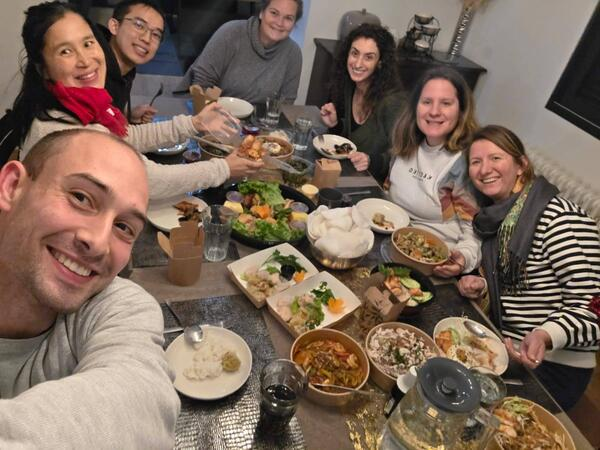
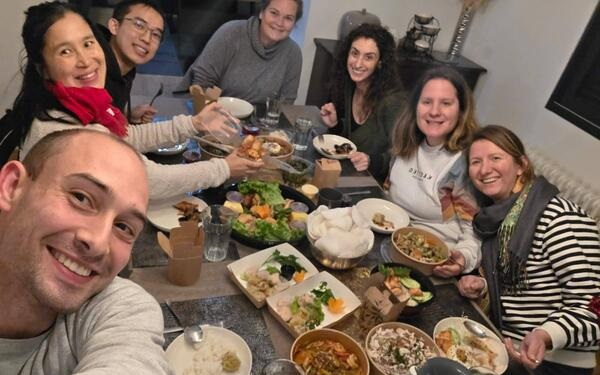
change images and optimize

diff --git a/projects.html b/projects.html
@@ -39,7 +39,7 @@
     <div class="max-w-5xl mx-auto space-y-6">
     <div class="flex flex-col sm:flex-row items-center sm:items-start gap-4 p-6 bg-white rounded-lg shadow-lg hover:shadow-xl transition-shadow">
       <button type="button" data-src="img/workshops_Laura.png" data-group="projects" onclick="openLightbox(event)">
-        <img src="img/workshops_Laura.png" alt="Workshop with Laura Maynard" class="w-32 h-32 sm:w-40 sm:h-40 object-cover rounded-lg shadow hover:scale-105 transition-transform duration-300">
+        <img src="img/workshops_Laura.png" alt="Workshop with Laura Maynard" class="w-40 h-28 sm:w-56 sm:h-36 object-cover rounded-lg shadow hover:scale-105 transition-transform duration-300">
       </button>
       <div class="flex-1 text-center sm:text-left">
         <span class="inline-block bg-yellow-300 text-white text-xs px-2 py-1 rounded mb-2">Community</span>
@@ -50,7 +50,7 @@
 
     <div class="flex flex-col sm:flex-row items-center sm:items-start gap-4 p-6 bg-white rounded-lg shadow-lg hover:shadow-xl transition-shadow">
       <button type="button" data-src="img/Murderet_logo.png" data-group="projects" data-caption="Photo by John Doe" onclick="openLightbox(event)">
-        <img src="img/Murderet_logo.png" alt="Summer festival 2025" class="w-32 h-32 sm:w-40 sm:h-40 object-cover rounded-lg shadow hover:scale-105 transition-transform duration-300">
+        <img src="img/Murderet_logo.png" alt="Summer festival 2025" class="w-40 h-28 sm:w-56 sm:h-36 object-cover rounded-lg shadow hover:scale-105 transition-transform duration-300">
       </button>
       <div class="flex-1 text-center sm:text-left">
         <span class="inline-block bg-yellow-300 text-white text-xs px-2 py-1 rounded mb-2">Community</span>
@@ -62,7 +62,7 @@
 
     <div class="flex flex-col sm:flex-row items-center sm:items-start gap-4 p-6 bg-white rounded-lg shadow-lg hover:shadow-xl transition-shadow">
       <button type="button" data-src="img/projects/FDT-2023-immersive-comedie.webp" data-group="projects" data-caption="Photo by John Doe" onclick="openLightbox(event)">
-        <img src="img/projects/FDT-2023-immersive-comedie-thumb.webp" alt="Cluedo Géant 2023" class="w-32 h-32 sm:w-40 sm:h-40 object-cover rounded-lg shadow hover:scale-105 transition-transform duration-300">
+        <img src="img/projects/FDT-2023-immersive-comedie-thumb.webp" alt="Cluedo Géant 2023" class="w-40 h-28 sm:w-56 sm:h-36 object-cover rounded-lg shadow hover:scale-105 transition-transform duration-300">
       </button>
       <div class="flex-1 text-center sm:text-left">
         <span class="inline-block bg-red-500 text-white text-xs px-2 py-1 rounded mb-2">Immersive</span>
@@ -74,7 +74,7 @@
 
     <div class="flex flex-col sm:flex-row items-center sm:items-start gap-4 p-6 bg-white rounded-lg shadow-lg hover:shadow-xl transition-shadow">
       <button type="button" data-src="img/projects/Workshop-2023-AdrienPellerin.jpg" data-group="projects" data-caption="Photo by Murderet" onclick="openLightbox(event)">
-        <img src="img/projects/Workshop-2023-AdrienPellerin.jpg" alt="Musical Improv Workshop" class="w-32 h-32 sm:w-40 sm:h-40 object-cover rounded-lg shadow hover:scale-105 transition-transform duration-300">
+        <img src="img/projects/Workshop-2023-AdrienPellerin.jpg" alt="Musical Improv Workshop" class="w-40 h-28 sm:w-56 sm:h-36 object-cover rounded-lg shadow hover:scale-105 transition-transform duration-300">
       </button>
       <div class="flex-1 text-center sm:text-left">
         <span class="inline-block bg-yellow-300 text-white text-xs px-2 py-1 rounded mb-2">Community</span>
@@ -86,7 +86,7 @@
 
     <div class="flex flex-col sm:flex-row items-center sm:items-start gap-4 p-6 bg-white rounded-lg shadow-lg hover:shadow-xl transition-shadow">
       <button type="button" data-src="img/projects/RETREAT-2023-community.webp" data-group="projects" data-caption="Photo by Arthur Nguyen" onclick="openLightbox(event)">
-        <img src="img/projects/RETREAT-2023-community-thumb.webp" alt="Improv Retreat 2023" class="w-32 h-32 sm:w-40 sm:h-40 object-cover rounded-lg shadow hover:scale-105 transition-transform duration-300">
+        <img src="img/projects/RETREAT-2023-community-thumb.webp" alt="Improv Retreat 2023" class="w-40 h-28 sm:w-56 sm:h-36 object-cover rounded-lg shadow hover:scale-105 transition-transform duration-300">
       </button>
       <div class="flex-1 text-center sm:text-left">
         <span class="inline-block bg-yellow-300 text-white text-xs px-2 py-1 rounded mb-2">Community</span>
@@ -97,8 +97,8 @@
     </div>
 
     <div class="flex flex-col sm:flex-row items-center sm:items-start gap-4 p-6 bg-white rounded-lg shadow-lg hover:shadow-xl transition-shadow">
-      <button type="button" data-src="img/projects/FDT-2022-immersive-mah.webp" data-group="projects" data-caption="Photo by John Doe" onclick="openLightbox(event)">
-        <img src="img/projects/FDT-2022-immersive-mah-thumb.webp" alt="A MAH-tter of Life and Death 2022" class="w-32 h-32 sm:w-40 sm:h-40 object-cover rounded-lg shadow hover:scale-105 transition-transform duration-300">
+      <button type="button" data-src="img/projects/FDT-FDT-2022-immersive-mah.webp" data-group="projects" data-caption="Photo by John Doe" onclick="openLightbox(event)">
+        <img src="img/projects/FDT-2022-immersive-mah-thumb.webp" alt="A MAH-tter of Life and Death 2022" class="w-40 h-28 sm:w-56 sm:h-36 object-cover rounded-lg shadow hover:scale-105 transition-transform duration-300">
       </button>
       <div class="flex-1 text-center sm:text-left">
         <span class="inline-block bg-red-500 text-white text-xs px-2 py-1 rounded mb-2">Immersive</span>
@@ -110,7 +110,7 @@
 
     <div class="flex flex-col sm:flex-row items-center sm:items-start gap-4 p-6 bg-white rounded-lg shadow-lg hover:shadow-xl transition-shadow">
       <button type="button" data-src="img/projects/FDT-2019-immersive-old-comedie.webp" data-group="projects" data-caption="Photo by John Doe" onclick="openLightbox(event)">
-        <img src="img/projects/FDT-2019-immersive-old-comedie-thumb.webp" alt="Cluedo Géant 2019" class="w-32 h-32 sm:w-40 sm:h-40 object-cover rounded-lg shadow hover:scale-105 transition-transform duration-300">
+        <img src="img/projects/FDT-2019-immersive-old-comedie-thumb.webp" alt="Cluedo Géant 2019" class="w-40 h-28 sm:w-56 sm:h-36 object-cover rounded-lg shadow hover:scale-105 transition-transform duration-300">
       </button>
       <div class="flex-1 text-center sm:text-left">
         <span class="inline-block bg-red-500 text-white text-xs px-2 py-1 rounded mb-2">Immersive</span>
@@ -129,29 +129,36 @@
   <div class="grid grid-cols-2 sm:grid-cols-3 md:grid-cols-4 gap-4 max-w-6xl mx-auto">
 
     <div class="gallery-wrapper">
-      <button type="button" class="gallery-item w-full" data-src="img/gallery/FDT-2023_murder_mystery_001.webp" data-group="gallery" data-caption="Magali Girardin - Fête du Théâtre 2023" onclick="openLightbox(event)">
-        <img src="img/gallery/FDT-2023_murder_mystery_001-thumb.webp" alt="Murder Mystery show" class="rounded-lg shadow h-40 w-full object-cover transform hover:scale-105 transition-transform duration-300">
+      <button type="button" class="gallery-item w-full" data-src="img/gallery/2025-11_Paquis_mystery.webp" data-group="gallery" data-caption="La Traverse Nov 2025" onclick="openLightbox(event)">
+        <img src="img/gallery/2025-11_Paquis_mystery-thumb.webp" alt="Murder Mystery show" class="rounded-lg shadow h-40 w-full object-cover transform hover:scale-105 transition-transform duration-300">
+      </button>
+      <p class="text-xs text-gray-500 mt-1 text-center">La Traverse Nov 2025</p>
+    </div>
+
+    <div class="gallery-wrapper">
+      <button type="button" class="gallery-item w-full" data-src="img/gallery/2025-11_ICC_CloseQuarters.webp" data-group="gallery" data-caption="ICC Nov 2025" onclick="openLightbox(event)">
+        <img src="img/gallery/2025-11_ICC_CloseQuarters-thumb.webp" alt="Murder Mystery show" class="rounded-lg shadow h-40 w-full object-cover transform hover:scale-105 transition-transform duration-300">
+      </button>
+      <p class="text-xs text-gray-500 mt-1 text-center">ICC Nov 2025</p>
+    </div>
+
+    <div class="gallery-wrapper">
+      <button type="button" class="gallery-item w-full" data-src="img/gallery/2025-10_StGervais_mystery.webp" data-group="gallery" data-caption="St. Gervais Nov 2025" onclick="openLightbox(event)">
+        <img src="img/gallery/2025-10_StGervais_mystery-thumb.webp" alt="Murder Mystery show" class="rounded-lg shadow h-40 w-full object-cover transform hover:scale-105 transition-transform duration-300">
+      </button>
+      <p class="text-xs text-gray-500 mt-1 text-center">St. Gervais Nov 2025</p>
+    </div>
+
+    <div class="gallery-wrapper">
+      <button type="button" class="gallery-item w-full" data-src="img/gallery/2023_murder_mystery_001.webp" data-group="gallery" data-caption="Magali Girardin - Fête du Théâtre 2023" onclick="openLightbox(event)">
+        <img src="img/gallery/2023_murder_mystery_001-thumb.webp" alt="Murder Mystery show" class="rounded-lg shadow h-40 w-full object-cover transform hover:scale-105 transition-transform duration-300">
       </button>
       <p class="text-xs text-gray-500 mt-1 text-center">Magali Girardin - Fête du Théâtre 2023</p>
     </div>
 
     <div class="gallery-wrapper">
-      <button type="button" class="gallery-item w-full" data-src="img/gallery/FDT-2023_murder_mystery_002.webp" data-group="gallery" data-caption="Magali Girardin - Fête du Théâtre 2023" onclick="openLightbox(event)">
-        <img src="img/gallery/FDT-2023_murder_mystery_002-thumb.webp" alt="Murder Mystery show" class="rounded-lg shadow h-40 w-full object-cover transform hover:scale-105 transition-transform duration-300">
-      </button>
-      <p class="text-xs text-gray-500 mt-1 text-center">Magali Girardin - Fête du Théâtre 2023</p>
-    </div>
-
-    <div class="gallery-wrapper">
-      <button type="button" class="gallery-item w-full" data-src="img/gallery/FDT-2023_murder_mystery_004.webp" data-group="gallery" data-caption="Magali Girardin - Fête du Théâtre 2023" onclick="openLightbox(event)">
-        <img src="img/gallery/FDT-2023_murder_mystery_004-thumb.webp" alt="Murder Mystery show" class="rounded-lg shadow h-40 w-full object-cover transform hover:scale-105 transition-transform duration-300">
-      </button>
-      <p class="text-xs text-gray-500 mt-1 text-center">Magali Girardin - Fête du Théâtre 2023</p>
-    </div>
-
-    <div class="gallery-wrapper">
-      <button type="button" class="gallery-item w-full" data-src="img/gallery/FDT-2023_murder_mystery_005.webp" data-group="gallery" data-caption="Magali Girardin - Fête du Théâtre 2023" onclick="openLightbox(event)">
-        <img src="img/gallery/FDT-2023_murder_mystery_005-thumb.webp" alt="Murder Mystery show" class="rounded-lg shadow h-40 w-full object-cover transform hover:scale-105 transition-transform duration-300">
+      <button type="button" class="gallery-item w-full" data-src="img/gallery/2023_murder_mystery_004.webp" data-group="gallery" data-caption="Magali Girardin - Fête du Théâtre 2023" onclick="openLightbox(event)">
+        <img src="img/gallery/2023_murder_mystery_004-thumb.webp" alt="Murder Mystery show" class="rounded-lg shadow h-40 w-full object-cover transform hover:scale-105 transition-transform duration-300">
       </button>
       <p class="text-xs text-gray-500 mt-1 text-center">Magali Girardin - Fête du Théâtre 2023</p>
     </div>
@@ -164,22 +171,15 @@
     </div>
 
     <div class="gallery-wrapper">
-      <button type="button" class="gallery-item w-full" data-src="img/gallery/FDT-2024_murder_mystery_stgervais.webp" data-group="gallery" data-caption="Emilie Qiao-Tasserit - Fête du Théâtre 2024" onclick="openLightbox(event)">
-        <img src="img/gallery/FDT-2024_murder_mystery_stgervais-thumb.webp" alt="Murder Mystery show" class="rounded-lg shadow h-40 w-full object-cover transform hover:scale-105 transition-transform duration-300">
-      </button>
-      <p class="text-xs text-gray-500 mt-1 text-center">Emilie Qiao-Tasserit - Fête du Théâtre 2024</p>
-    </div>
-
-    <div class="gallery-wrapper">
-      <button type="button" class="gallery-item w-full" data-src="img/gallery/FDT-2022_immersive_prep.webp" data-group="gallery" data-caption="Arthur Nguyen - Fête du Théâtre 2022" onclick="openLightbox(event)">
-        <img src="img/gallery/FDT-2022_immersive_prep-thumb.webp" alt="Preparation of the show" class="rounded-lg shadow h-40 w-full object-cover transform hover:scale-105 transition-transform duration-300">
+      <button type="button" class="gallery-item w-full" data-src="img/gallery/2022_immersive_prep.webp" data-group="gallery" data-caption="Arthur Nguyen - Fête du Théâtre 2022" onclick="openLightbox(event)">
+        <img src="img/gallery/2022_immersive_prep-thumb.webp" alt="Preparation of the show" class="rounded-lg shadow h-40 w-full object-cover transform hover:scale-105 transition-transform duration-300">
       </button>
       <p class="text-xs text-gray-500 mt-1 text-center">Arthur Nguyen - Fête du Théâtre 2022</p>
     </div>
 
     <div class="gallery-wrapper">
-      <button type="button" class="gallery-item w-full" data-src="img/gallery/FDT-2022_immersive_backstage.webp" data-group="gallery" data-caption="John Doe - Fête du Théâtre 2022" onclick="openLightbox(event)">
-        <img src="img/gallery/FDT-2022_immersive_backstage-thumb.webp" alt="Getting ready for the show" class="rounded-lg shadow h-40 w-full object-cover transform hover:scale-105 transition-transform duration-300">
+      <button type="button" class="gallery-item w-full" data-src="img/gallery/2022_immersive_backstage.webp" data-group="gallery" data-caption="John Doe - Fête du Théâtre 2022" onclick="openLightbox(event)">
+        <img src="img/gallery/2022_immersive_backstage-thumb.webp" alt="Getting ready for the show" class="rounded-lg shadow h-40 w-full object-cover transform hover:scale-105 transition-transform duration-300">
       </button>
       <p class="text-xs text-gray-500 mt-1 text-center">John Doe - Fête du Théâtre 2022</p>
     </div>

diff --git a/index.html b/index.html
@@ -12,7 +12,7 @@
 <body class="bg-white text-gray-900">
 
 <!-- Header Placeholder -->
-<div id="header-placeholder">placeholder</div>
+<div id="header-placeholder"></div>
 
 <!-- Hero Section -->
 <section class="bg-gradient-to-r from-red-500 via-red-500 to-red-400 text-white text-center py-14 px-4">